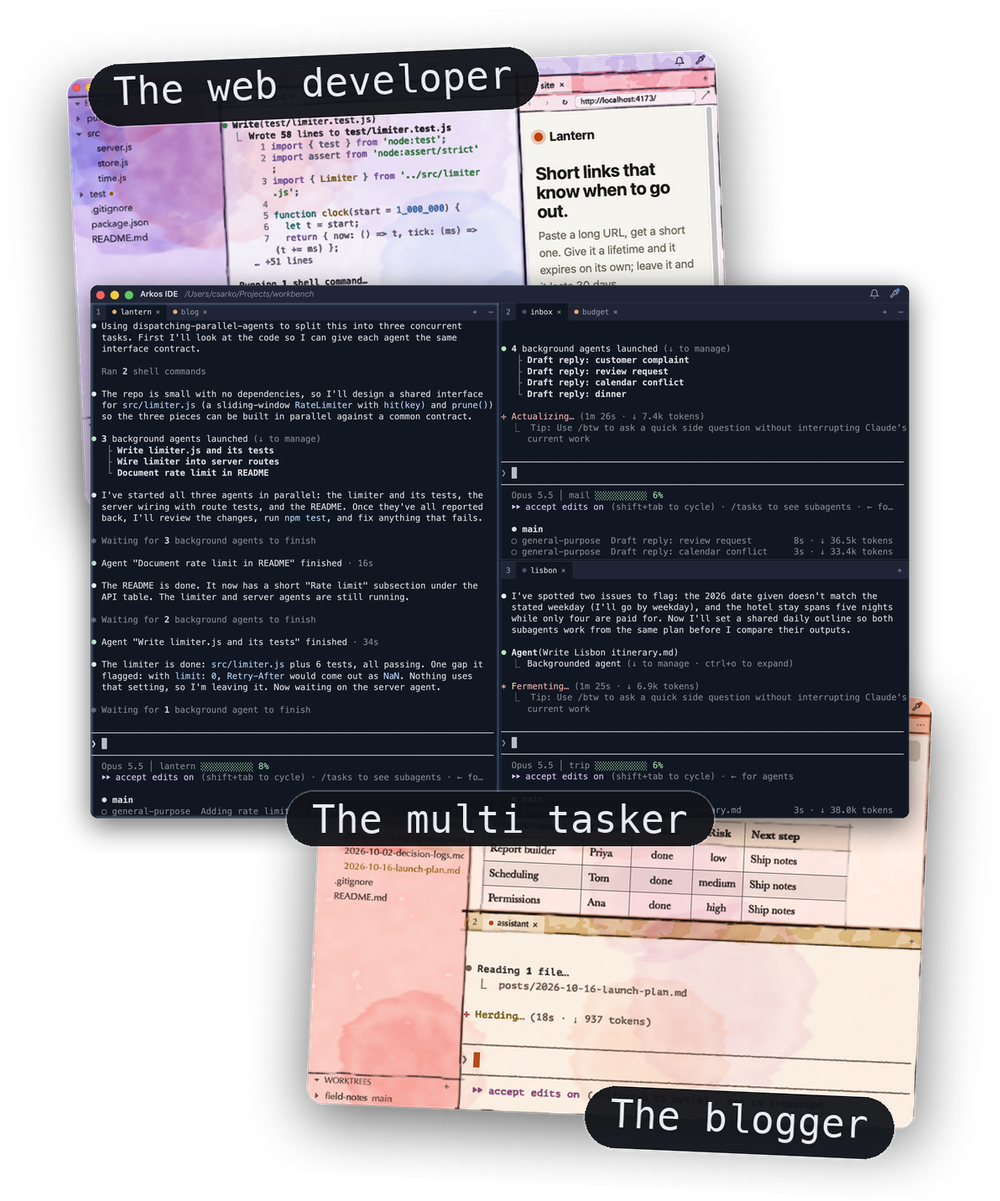
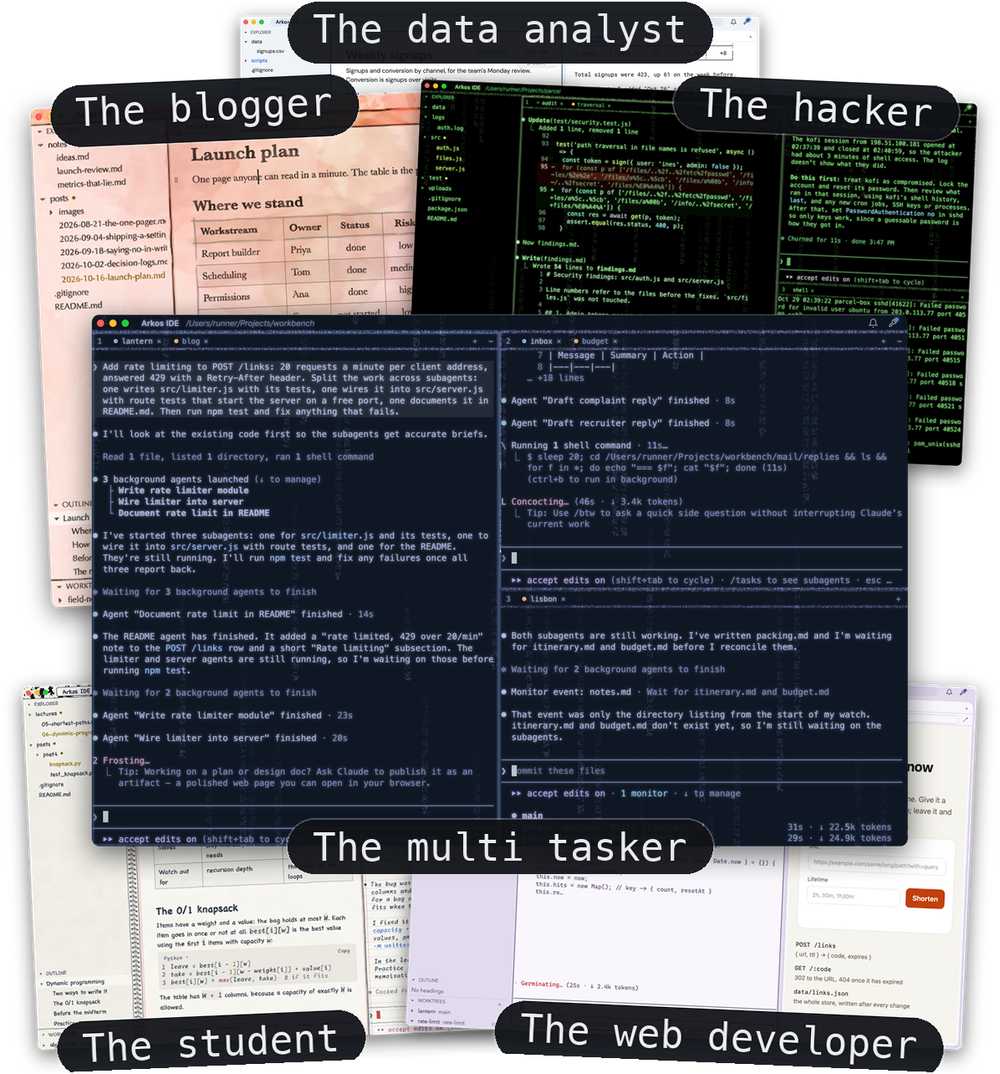
Arkos IDE's card: the hero with every persona

diff --git a/docs/apps/ide-arkos.md b/docs/apps/ide-arkos.md
@@ -9,7 +9,7 @@ released: 2026-10-15
 order: 2
 link: Install and docs
 tags: Rust, GPUI, macOS, Claude Code
-alt: Three Arkos IDE windows fanned out like postcards: in front the multi tasker, three Claude Code sessions each running its own subagents on an unrelated project; behind, the web developer with the app's page in a web tab, and the blogger with posts open in the markdown editor
+alt: Six Arkos IDE windows fanned out like postcards, each in its own theme: in front the multi tasker, three Claude Code sessions each running its own subagents on an unrelated project; behind, the blogger, the data analyst, the hacker, the student and the web developer
 hero-video: docs/images/hero.mp4
 hero-video-alt: The camera pulls back from the tab bar of an Arkos IDE window, its sessions working and waiting, to show it in Navy Runic with every other persona's window fanned behind it, each in its own theme
 promo: Sessions that survive updates, restarts and frozen windows. Nine built-in themes with animated effects, or your own. A markdown editor you edit in its rendered view, a web pane, a video pane and a file tree with git worktrees.
